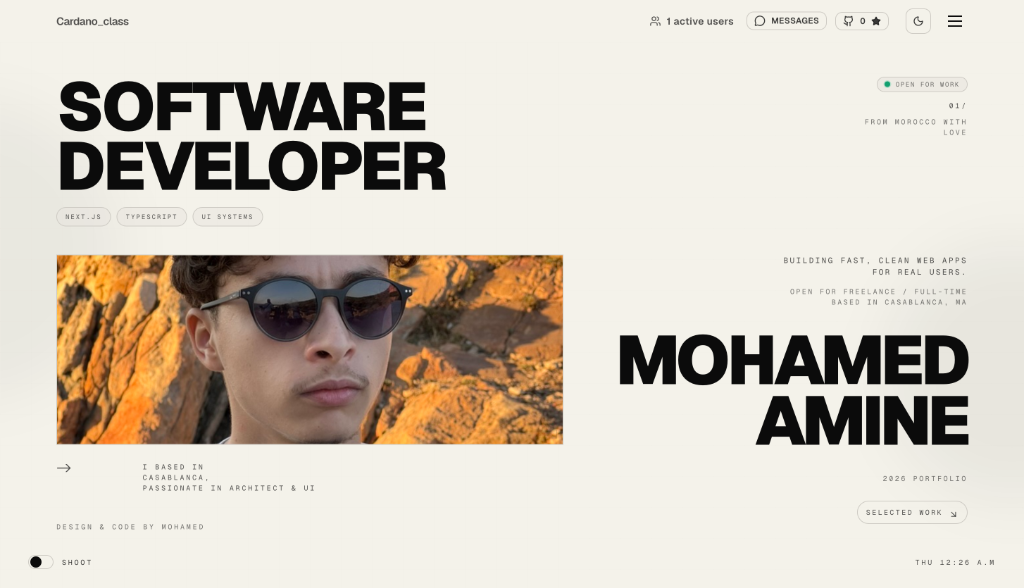
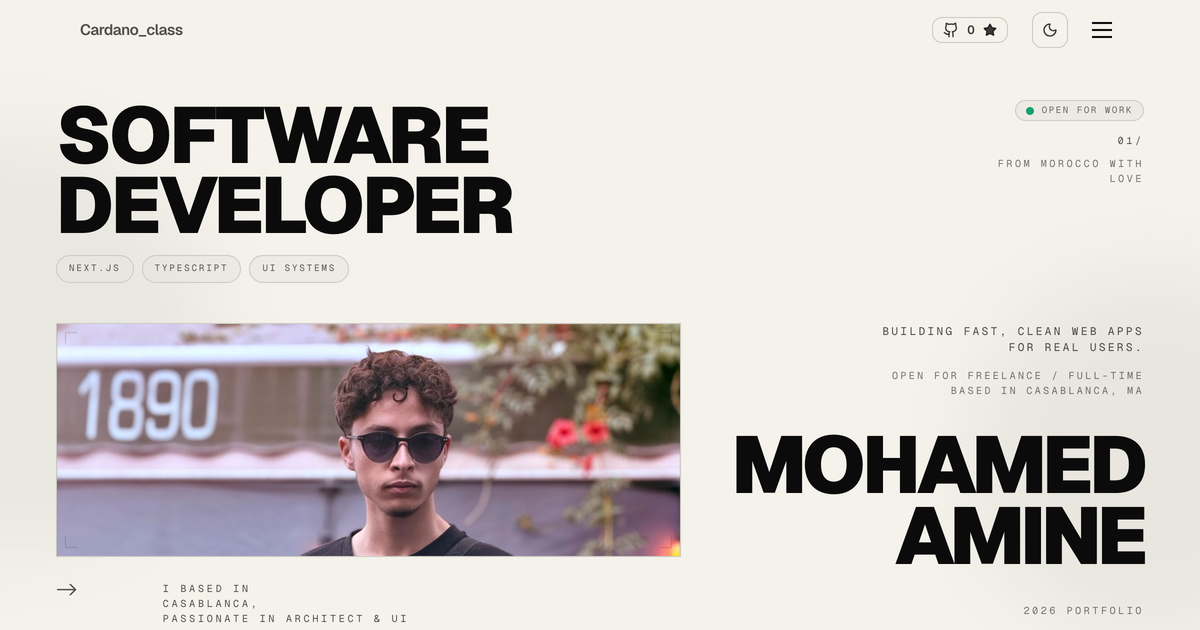
content: fresh 1200x630 share image of the current hero

diff --git a/app/layout.tsx b/app/layout.tsx
@@ -22,7 +22,7 @@ const geistMono = Geist_Mono({
 const title = "Mohamed Amine | Fullstack Developer";
 const description =
   "Mohamed Amine is a software developer with a passion for building high-performance web applications and system solutions.";
-const previewImage = { url: "/images/preview.png", width: 1024, height: 588 };
+const previewImage = { url: "/images/preview.png", width: 1200, height: 630 };
 
 export const metadata: Metadata = {
   metadataBase: new URL(SITE_URL),
